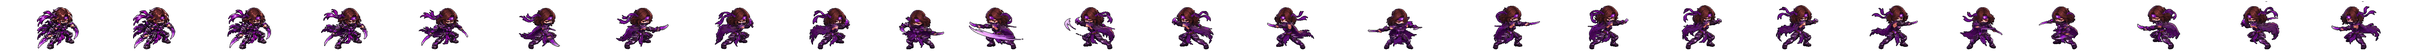
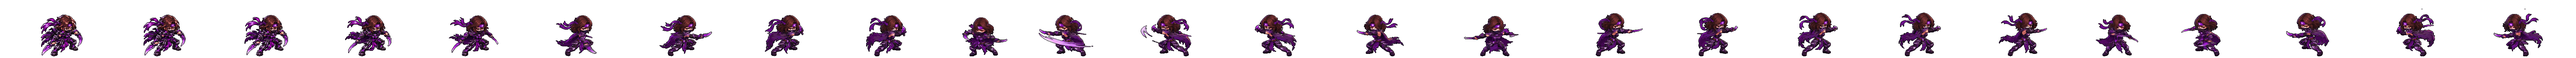
Assassin skin: run, second attack, hurt and death from the owner's Meta AI clips
Claude-Session: https://claude.ai/code/session_01TXxUxQ6wjWh66ESj3NLopA

Changed region(s): [[0.0, 0.1622, 0.5911, 0.9459], [0.6222, 0.1351, 0.9956, 0.9189]]

diff --git a/action.html b/action.html
@@ -3351,19 +3351,23 @@ function drawPlayerBody(p) {
 // mirrored when she faces left. Everything else (skills, hits) is the rogue's.
 const ASN = HERO === 'rogue' && QS.get('skin') === 'assassin' ? {} : null;
 if (ASN) { fetch('art/action/assassin/assassin.json').then(r => r.json()).then(m => { ASN.m = m; });
-  for (const k of ['still', 'attack']) { const im = new Image(); im.src = 'art/action/assassin/' + k + '.png'; ASN[k] = im; } }
+  for (const k of ['still', 'attack', 'attack2', 'run', 'hurt', 'death']) { const im = new Image(); im.src = 'art/action/assassin/' + k + '.png'; ASN[k] = im; } }
 function drawAssassin(p) {
   const m = ASN.m; if (!m || !ASN.still.complete) return false;
   const n = N128 ? (HZ || Math.max(1, Math.round(S * 2 / 3))) : S, d = n / S, x = Math.round(p.x * S) / S; let y = Math.round(p.y * S) / S;
   const left = DV[p.vd !== undefined && (p.state === 'idle' || p.state === 'move') ? p.vd : p.dir][0] < -.1;
-  let img = ASN.still, sx = 0;
-  if (p.state === 'atk' && p.a && ASN.attack.complete) { const L = p.a.plan.fr ? p.a.plan.fr.length : p.a.plan.ar.n; img = ASN.attack; sx = Math.min(m.n - 1, Math.floor((p.a.i + Math.min(1, p.a.t / 60)) / L * m.n)) * m.cw; }
-  else if (p.state === 'move') y -= (Math.floor(G.t * 10) % 2) * d * 2;
+  let img = ASN.still, sx = 0; const N = typeof m.n === 'object' ? m.n : {attack: m.n};
+  const row = (k, u) => { if (!ASN[k] || !ASN[k].complete || !N[k]) return false; img = ASN[k]; sx = Math.min(N[k] - 1, Math.max(0, Math.floor(u * N[k]))) * m.cw; return true; };
+  if (p.state === 'atk' && p.a) { const L = p.a.plan.fr ? p.a.plan.fr.length : p.a.plan.ar.n;   // the two attack clips take turns
+    if (p.a !== ASN.lastA) { ASN.lastA = p.a; ASN.alt = !ASN.alt; } row(ASN.alt && N.attack2 ? 'attack2' : 'attack', (p.a.i + Math.min(1, p.a.t / 60)) / L); }
+  else if (p.state === 'dead') row('death', Math.min(1, p.deadT / DEATH_T));
+  else if (p.state === 'hurt') row('hurt', 1 - p.hurtT / HURT_T);
+  else if (p.state === 'move') { if (!row('run', (G.t * 14 % (N.run || 1)) / (N.run || 1))) y -= (Math.floor(G.t * 10) % 2) * d * 2; }
   else if (p.state === 'idle') y -= (Math.floor(G.t * 3) % 2) * d;
   ctx.save(); ctx.translate(x, 0); if (left) ctx.scale(-1, 1);
   ctx.drawImage(img, sx, 0, m.cw, m.ch, -m.fx * d, y - m.fy * d, m.cw * d, m.ch * d); ctx.restore(); return true; }
 function drawPlayerBody2(p) {
-  if (ASN && p.state !== 'dead' && drawAssassin(p)) return;
+  if (ASN && drawAssassin(p)) return;
   if (p.state === 'act' && p.ac && p.ac.draw) { p.ac.draw(p, p.ac); return; }
   if (p.state === 'act' && p.ac) { const q = p.ac, f = q.fr[Math.min(q.i, q.fr.length - 1)];
     drawCell(q.ar.img, q.ar.r, f, p.x, p.y, q.ar.flip);

diff --git a/tools/art/assassin_video_build.py b/tools/art/assassin_video_build.py
@@ -1,27 +1,39 @@
-# Assassin test skin for the 2D game (owner 2026-11-11 "ใช้ 2D เลย"): the PixelLab pixel still + the Meta AI attack clip cut to
-# pixel frames (tools/video/vid2px.py, PixelLab palette), feet locked to one point, the turned-away frames dropped.
-#   python3 tools/art/assassin_video_build.py <frames dir from vid2px> <first,last>
-#   -> art/action/assassin/still.png, attack.png (one row) + assassin.json {cw, ch, fx, fy, n}
+# Assassin skin for the 2D game (owner 2026-11-11 "ใช้ 2D เลย"): the PixelLab pixel still + the owner's Meta AI clips cut to
+# pixel frames (tools/video/vid2px.py with the PixelLab still as palette). Every frame gets a dark outline and its feet are
+# locked to one point; all moves share one cell size.
+#   python3 tools/art/assassin_video_build.py name=<frames dir>:<first,last> [name=...]   (attack, attack2, run, hurt, death)
+#   -> art/action/assassin/still.png, <name>.png (one row each) + assassin.json {cw, ch, fx, fy, n: {name: frames}}
 import sys, os, json, glob, numpy as np
 from PIL import Image
-src = sys.argv[1]; a0, a1 = (int(v) for v in sys.argv[2].split(','))
 OUT = 'art/action/assassin/'; os.makedirs(OUT, exist_ok=True)
+
 def outline(im):
     a = np.asarray(im).copy(); m = a[..., 3] > 0; nb = np.zeros_like(m)
     for dy, dx in ((0, 1), (0, -1), (1, 0), (-1, 0)): nb |= np.roll(np.roll(m, dy, 0), dx, 1)
     a[nb & ~m] = (14, 6, 16, 255); return Image.fromarray(a)
-def feet(im):
+
+def feet(im):   # middle of the lowest 6 rows of the figure
     a = np.asarray(im)[..., 3] > 0; ys, xs = np.nonzero(a); b = ys.max(); low = ys >= b - 5
     return float(xs[low].mean()), int(b)
-fr = [outline(Image.open(f).convert('RGBA')) for f in sorted(glob.glob(src + '/p*.png'))[a0:a1 + 1]]
+
+JOBS = []
+for arg in sys.argv[1:]:
+    name, rest = arg.split('=', 1); d, rng = rest.rsplit(':', 1); a0, a1 = (int(v) for v in rng.split(','))
+    JOBS.append((name, [outline(Image.open(f).convert('RGBA')) for f in sorted(glob.glob(d + '/p*.png'))[a0:a1 + 1]]))
 st = Image.open('art/incoming/action/rogue/class2/assassin_pl128_cut.png').convert('RGBA'); st = outline(st.crop(st.getbbox()))
-FX, FY = 0, 0; ext = []
-for im in fr + [st]: fx, fy = feet(im); ext.append((fx, fy, im))
+allim = [im for _, fr in JOBS for im in fr] + [st]
+ext = [(*feet(im), im) for im in allim]
 L = max(fx for fx, fy, im in ext) + 4; R = max(im.width - fx for fx, fy, im in ext) + 4; T = max(fy for fx, fy, im in ext) + 4
-cw, ch = int(L + R), int(T + 6); fx0, fy0 = int(L), int(T)
-def place(fx, fy, im): c = Image.new('RGBA', (cw, ch)); c.alpha_composite(im, (round(fx0 - fx), fy0 - fy)); return c
-row = Image.new('RGBA', (cw * len(fr), ch))
-for i, (fx, fy, im) in enumerate(ext[:-1]): row.alpha_composite(place(fx, fy, im), (i * cw, 0))
-row.save(OUT + 'attack.png'); place(*ext[-1]).save(OUT + 'still.png')
-json.dump({'cw': cw, 'ch': ch, 'fx': fx0, 'fy': fy0, 'n': len(fr)}, open(OUT + 'assassin.json', 'w'))
-print('cell', cw, ch, 'feet', fx0, fy0, 'frames', len(fr))
+cw, ch, fx0, fy0 = int(L + R), int(T + 6), int(L), int(T)
+
+def place(im):
+    fx, fy = feet(im); c = Image.new('RGBA', (cw, ch)); c.alpha_composite(im, (round(fx0 - fx), fy0 - fy)); return c
+
+N = {}
+for name, fr in JOBS:
+    row = Image.new('RGBA', (cw * len(fr), ch))
+    for i, im in enumerate(fr): row.alpha_composite(place(im), (i * cw, 0))
+    row.save(OUT + name + '.png'); N[name] = len(fr)
+place(st).save(OUT + 'still.png')
+json.dump({'cw': cw, 'ch': ch, 'fx': fx0, 'fy': fy0, 'n': N}, open(OUT + 'assassin.json', 'w'))
+print('cell', cw, ch, 'feet', fx0, fy0, N)
